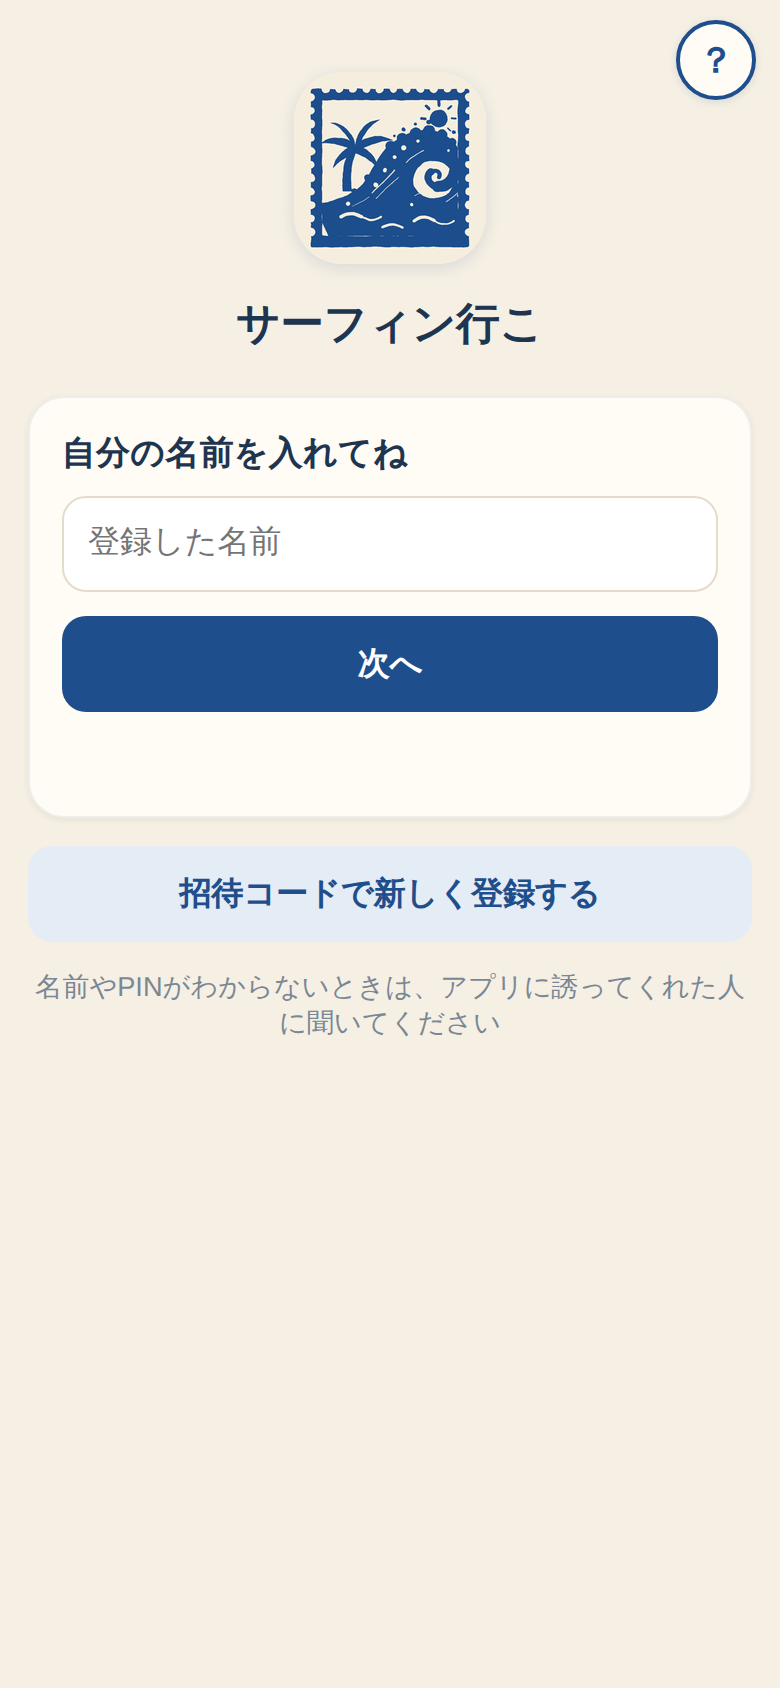
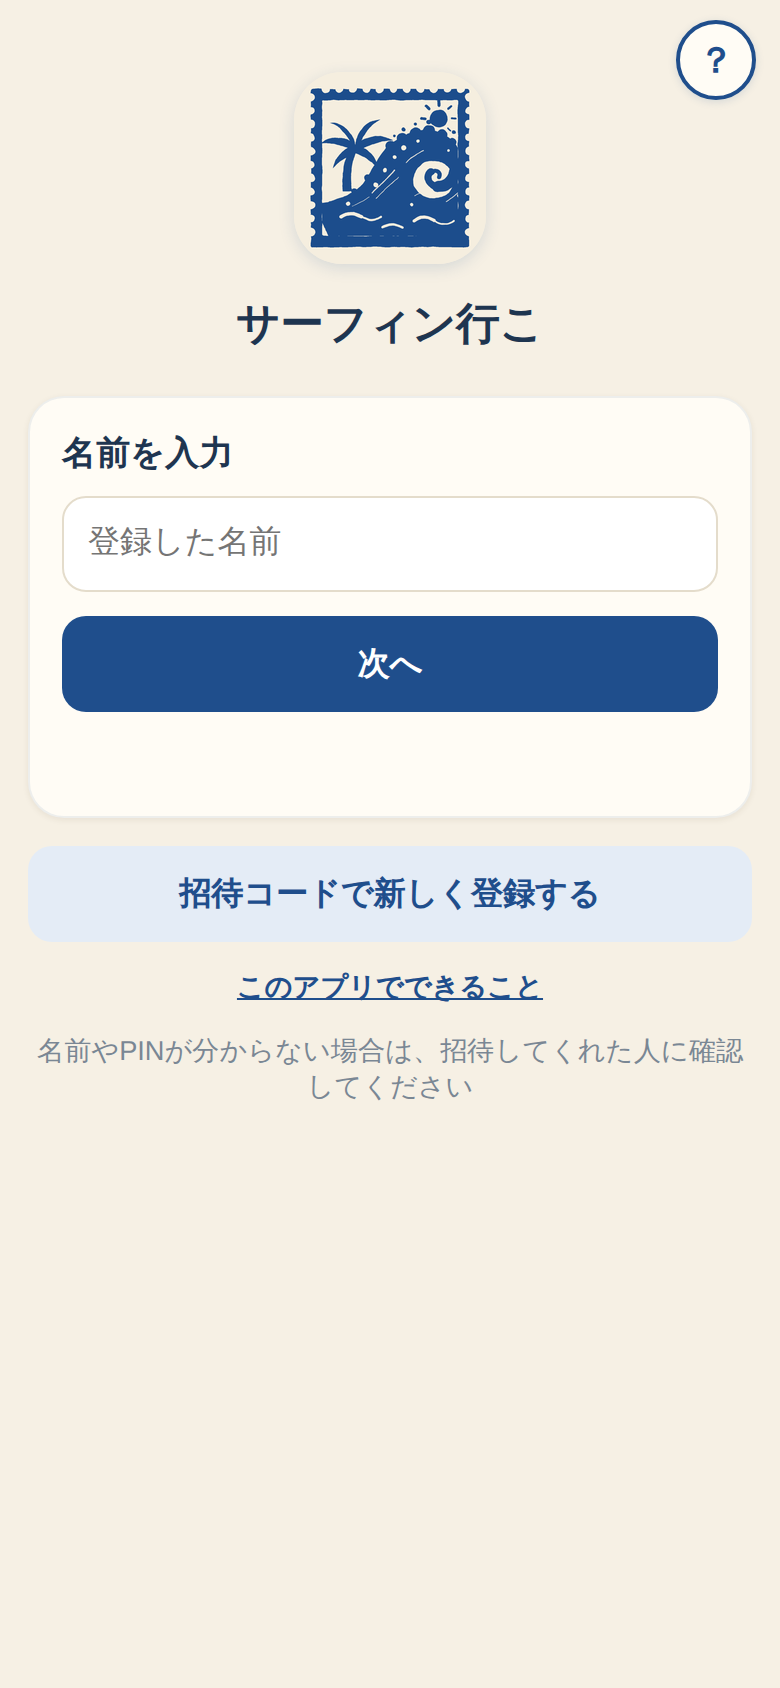
アプリ本体の文言を大人向けに、初回起動の「はじめに」画面を追加
- ログイン・登録・PIN・ヒント・トースト・招待文などの「〜てね」「ようこそ!」を落ち着いた表現に
- 初回起動時に3つのメリット(仲間の予定が見える / トリップの日程合わせ / 通知)を
  コンパクトに表示。「はじめる」で閉じ、以後は表示しない。ログイン画面のリンクから再表示可
- 使い方ガイドの第1章も同じ3項目に
- ガイドの画像を新しい文言で再生成

Claude-Session: https://claude.ai/code/session_01YJ4aJdBi8Pih4aaSyeuZ7k

diff --git a/index.html b/index.html
@@ -303,6 +303,17 @@ h2{font-size:1.05rem; margin:0 0 10px; letter-spacing:.02em;}
 .help-fig img{max-width:100%; width:260px; border-radius:12px; border:1px solid #D9CFB8; box-shadow:0 2px 8px rgba(31,78,140,.12); display:block; height:auto;}
 .help-fig.two img{width:calc(50% - 5px);}
 .help-svg{width:100%; max-width:340px; height:auto; display:block;}
+.intro-list{margin:6px 0 14px; padding:0; list-style:none;}
+.intro-list li{display:flex; gap:12px; align-items:flex-start; background:var(--card); border-radius:14px; padding:12px 14px; margin-bottom:8px;
+  box-shadow:0 1px 3px rgba(31,78,140,.08); text-align:left;}
+.intro-list .ii{flex:none; width:40px; height:40px; border-radius:50%; background:#E4ECF6; color:#1F4E8C; display:flex; align-items:center; justify-content:center;}
+.intro-list .ii svg{width:22px; height:22px; stroke:#1F4E8C;}
+.intro-list b{display:block; font-size:1rem; margin-bottom:2px;}
+.intro-list span.d{color:var(--sub); font-size:.9rem; line-height:1.5;}
+#intro-screen{position:fixed; inset:0; background:var(--bg); z-index:70; overflow-y:auto; padding:calc(24px + env(safe-area-inset-top)) 16px calc(24px + var(--safe-bottom));}
+#intro-screen .inner{max-width:420px; margin:0 auto; text-align:center;}
+#intro-screen h1{font-size:1.4rem; margin:6px 0 4px;}
+#intro-screen .lead{color:var(--sub); margin:0 0 16px;}
 .help-inner .sw{display:inline-block; width:1em; height:1em; border-radius:50%; vertical-align:-2px; margin-right:4px;}
 </style>
 </head>
@@ -319,6 +330,7 @@ h2{font-size:1.05rem; margin:0 0 10px; letter-spacing:.02em;}
   <symbol id="i-plus" viewBox="0 0 24 24"><path d="M12 5v14M5 12h14"/></symbol>
   <symbol id="i-cal" viewBox="0 0 24 24"><rect x="3" y="5" width="18" height="16" rx="3"/><path d="M3 10h18M8 3v4M16 3v4M8 15h3"/></symbol>
   <symbol id="i-people" viewBox="0 0 24 24"><circle cx="9" cy="8" r="3.2"/><circle cx="17" cy="9.5" r="2.5"/><path d="M2.5 20c.5-4 3.5-6 6.5-6s6 2 6.5 6M15.5 20c.3-2.5 2-4 4.5-4 1 0 1.7.2 2 .4"/></symbol>
+  <symbol id="i-bell" viewBox="0 0 24 24"><path d="M6 17V11a6 6 0 0112 0v6l1.5 2h-15z"/><path d="M10 21a2 2 0 004 0"/></symbol>
   <symbol id="i-person" viewBox="0 0 24 24"><circle cx="12" cy="8" r="4"/><path d="M4.5 21c.5-4.5 4-7 7.5-7s7 2.5 7.5 7"/></symbol>
 </svg>
 <div id="spinner"><div class="spin"></div></div>
@@ -333,21 +345,22 @@ h2{font-size:1.05rem; margin:0 0 10px; letter-spacing:.02em;}
   </div>
   <div id="login-step-name">
     <div class="card">
-      <h2>自分の名前を入れてね</h2>
+      <h2>名前を入力</h2>
       <input class="field" id="login-name" placeholder="登録した名前" maxlength="20"
         autocomplete="username" autocapitalize="off" autocorrect="off" spellcheck="false">
       <button class="btn" style="margin-top:12px" onclick="goToPin()">次へ</button>
       <div class="pin-error" id="name-error"></div>
     </div>
     <button class="btn secondary" onclick="showRegister()">招待コードで新しく登録する</button>
-    <p class="sub" style="text-align:center">名前やPINがわからないときは、アプリに誘ってくれた人に聞いてください</p>
+    <p class="sub" style="text-align:center; margin-top:14px"><a href="#" onclick="openIntro(); return false;" style="color:var(--accent); font-weight:600">このアプリでできること</a></p>
+    <p class="sub" style="text-align:center">名前やPINが分からない場合は、招待してくれた人に確認してください</p>
   </div>
   <div id="login-step-register" class="hidden">
     <div class="card">
-      <h2>はじめての登録</h2>
-      <label class="sub">招待コード(誘ってくれた人に聞いてね)</label>
+      <h2>新規登録</h2>
+      <label class="sub">招待コード(招待してくれた人から受け取ったもの)</label>
       <input class="field" id="reg-code" maxlength="30" autocapitalize="characters" autocorrect="off" spellcheck="false" style="margin:4px 0 12px">
-      <label class="sub">名前(みんなに表示されます。ニックネームでOK)</label>
+      <label class="sub">名前(仲間に表示されます。ニックネーム可)</label>
       <input class="field" id="reg-name" maxlength="20" autocorrect="off" spellcheck="false" style="margin:4px 0 12px">
       <label class="sub">PIN(6桁の数字。ログインに使います)</label>
       <input class="field" id="reg-pin" type="password" inputmode="numeric" maxlength="6" style="margin:4px 0 12px">
@@ -360,14 +373,14 @@ h2{font-size:1.05rem; margin:0 0 10px; letter-spacing:.02em;}
   </div>
   <div id="login-step-pin" class="hidden">
     <div class="card">
-      <h2 id="pin-title">PINを入れてね</h2>
+      <h2 id="pin-title">PINを入力</h2>
       <div id="pin-boxes">
         <div class="pin-box"></div><div class="pin-box"></div><div class="pin-box"></div>
         <div class="pin-box"></div><div class="pin-box"></div><div class="pin-box"></div>
       </div>
       <div class="pin-error" id="pin-error"></div>
       <div id="pin-pad"></div>
-      <button class="btn secondary" style="margin-top:16px" onclick="backToNames()">← 名前を入れ直す</button>
+      <button class="btn secondary" style="margin-top:16px" onclick="backToNames()">← 名前を入力し直す</button>
     </div>
   </div>
 </div>
@@ -482,6 +495,25 @@ h2{font-size:1.05rem; margin:0 0 10px; letter-spacing:.02em;}
   </div>
 </div>
 
+<!-- ============ はじめに(初回だけ表示) ============ -->
+<div id="intro-screen" class="hidden">
+  <div class="inner">
+    <img src="icons/icon-192.png" alt="" style="width:84px; height:84px; border-radius:20px; box-shadow:0 2px 8px rgba(31,78,140,.15)">
+    <h1>サーフィン行こ</h1>
+    <p class="lead">仲間と「いつ海に行くか」を共有するアプリです</p>
+    <ul class="intro-list">
+      <li><span class="ii"><svg class="ic"><use href="#i-people"/></svg></span>
+        <div><b>仲間の予定が見える</b><span class="d">誰がいつ海に行くかがカレンダーで分かるので、みんなが行くタイミングに合わせて海に行けます。</span></div></li>
+      <li><span class="ii"><svg class="ic"><use href="#i-plane"/></svg></span>
+        <div><b>トリップの日程を合わせられる</b><span class="d">海外や船のトリップは、メンバー全員で行ける日を出し合って日程を決められます。</span></div></li>
+      <li><span class="ii"><svg class="ic"><use href="#i-bell"/></svg></span>
+        <div><b>仲間の動きを通知で知れる</b><span class="d">よく一緒に行く人が「海に行く」と登録したら、スマートフォンに通知が届きます。</span></div></li>
+    </ul>
+    <button class="btn" onclick="closeIntro()">はじめる</button>
+    <button class="btn secondary" style="margin-top:10px" onclick="closeIntro(); openHelp()">くわしい使い方を見る</button>
+  </div>
+</div>
+
 <!-- ============ 使い方(ヘルプ) ============ -->
 <div id="help-screen" class="hidden">
   <div class="help-top">
@@ -494,12 +526,14 @@ h2{font-size:1.05rem; margin:0 0 10px; letter-spacing:.02em;}
     <details open>
       <summary><span class="no">1</span>このアプリでできること</summary>
       <div class="hb">
-        <p>「サーフィン行こ」は、仲間内で<b>「いつ海に行けるか」</b>を共有するためのカレンダーです。</p>
-        <ul>
-          <li>自分が行ける日を、カレンダーを指でなぞって登録する</li>
-          <li>仲間が行ける日が、日付の中の点(●)で分かる</li>
-          <li>海外遠征やボートトリップの日程調整、参加者限定の掲示板</li>
-          <li>仲間が予定を入れたときなどに、スマートフォンへ通知</li>
+        <p>「サーフィン行こ」は、仲間内で<b>「いつ海に行くか」</b>を共有するアプリです。できることは大きく3つです。</p>
+        <ul class="intro-list">
+          <li><span class="ii"><svg class="ic"><use href="#i-people"/></svg></span>
+            <div><b>仲間の予定が見える</b><span class="d">誰がいつ海に行くかがカレンダーで分かるので、みんなが行くタイミングに合わせて海に行けます。</span></div></li>
+          <li><span class="ii"><svg class="ic"><use href="#i-plane"/></svg></span>
+            <div><b>トリップの日程を合わせられる</b><span class="d">海外や船のトリップは、メンバー全員で行ける日を出し合って日程を決められます。参加者限定の掲示板としおりも使えます。</span></div></li>
+          <li><span class="ii"><svg class="ic"><use href="#i-bell"/></svg></span>
+            <div><b>仲間の動きを通知で知れる</b><span class="d">よく一緒に行く人が「海に行く」と登録したら、スマートフォンに通知が届きます。誰の、どの予定を通知するかは自分で選べます。</span></div></li>
         </ul>
         <p class="tip">利用は無料です。登録するのは名前とPIN(6桁の数字)だけで、電話番号やメールアドレスは使いません。</p>
       </div>
@@ -921,6 +955,7 @@ async function boot(){
 async function showLogin(){
   $('app').classList.add('hidden');
   $('login-screen').classList.remove('hidden');
+  maybeShowIntro();
   $('login-step-name').classList.remove('hidden');
   $('login-step-pin').classList.add('hidden');
   $('login-step-register').classList.add('hidden');
@@ -972,10 +1007,10 @@ async function submitRegister(){
   try { localStorage.setItem('surf-iko:last-name', m.name); } catch (e) {}
   await enterApp({ id: m.id, name: m.name, is_admin: m.is_admin });
   openModal(`
-    <h2>ようこそ、${esc(m.name)} さん!</h2>
+    <h2>${esc(m.name)} さん、登録が完了しました</h2>
     <p class="sub">次からは、名前「${esc(m.name)}」と今決めたPINでログインします。</p>
     <p class="sub">あなたの海・プール・海外の予定は、まだ誰にも見えていません。<br>
-      「仲間」タブの<b>「見せる」</b>で、見せたい人を選んでね。</p>
+      「仲間」タブの<b>「見せる」</b>で、見せる相手を選んでください。</p>
     <button class="btn" onclick="closeModal(); showTab('nakama')">仲間タブを開く</button>
     <button class="btn secondary" onclick="closeModal()">あとで</button>
   `);
@@ -988,7 +1023,7 @@ function goToPin(){
   $('login-name').blur();
   state.loginMember = { name };
   state.pinDigits = '';
-  $('pin-title').textContent = `${name} さんのPINを入れてね`;
+  $('pin-title').textContent = `${name} さんのPINを入力`;
   $('pin-error').textContent = '';
   renderPinPad();
   renderPinBoxes();
@@ -1282,9 +1317,9 @@ function renderPalette(){
        onclick="setPaint('eraser')">🧽 消しゴム</button>`;
   $('palette').innerHTML = html;
   $('paint-hint').textContent =
-    state.paint === 'eraser' ? '消したい日をなぞってね(過去の日は「行かなかった」になります)' :
-    state.paint === 'went' ? '実際に行った日(過去)をなぞってね。もう一度なぞると取り消し' :
-    state.paint ? `「${intentDef(state.genre, state.paint).label}」にする日をなぞってね(もう一度なぞると取り消し)` :
+    state.paint === 'eraser' ? '消したい日をなぞってください(過去の日は「行かなかった」になります)' :
+    state.paint === 'went' ? '実際に行った日(過去)をなぞってください。もう一度なぞると取り消し' :
+    state.paint ? `「${intentDef(state.genre, state.paint).label}」にする日をなぞってください(もう一度なぞると取り消し)` :
     '上のボタンをどれか選ぶと、なぞった日に予定が入ります。今は日付タップでみんなの予定が見られます';
 }
 function setPaint(key){
@@ -1838,7 +1873,7 @@ async function submitTripCreate(){
   spin(false);
   if (error) { console.error(error); toast('作成に失敗しました', true); return; }
   closeSheet();
-  toast(`「${name}」を作りました。行ける日を塗ってね`);
+  toast(`「${name}」を作りました。行ける日をなぞって登録してください`);
   await refreshSocial();
   await setGenre('trip:' + data);
 }
@@ -2019,7 +2054,7 @@ function openConfirmTrip(start, end){
 async function submitConfirmTrip(id){
   const a = $('cf-start').value, b = $('cf-end').value;
   if (!a || !b) { $('cf-error').textContent = '日付を選んでください'; return; }
-  if (b < a) { $('cf-error').textContent = 'おわりは、はじまりより後にしてください'; return; }
+  if (b < a) { $('cf-error').textContent = '終了日は開始日より後にしてください'; return; }
   spin(true);
   const { error } = await sb.rpc('confirm_trip', { p_trip: id, p_start: a, p_end: b });
   spin(false);
@@ -2519,7 +2554,7 @@ async function disablePush(){
 }
 async function sendTestNotification(){
   const { error } = await sb.rpc('send_test_notification');
-  toast(error ? '送れませんでした' : 'テスト通知を送りました。1分以内に届きます(アプリを閉じて待ってみてね)', !!error);
+  toast(error ? '送れませんでした' : 'テスト通知を送りました。1分以内に届きます(アプリを閉じて待つと確認しやすいです)', !!error);
 }
 async function setNotifyMode(mode){
   await sb.from('notify_settings').upsert({ member_id: state.me.id, mode, updated_at: new Date().toISOString() }, { onConflict: 'member_id' });
@@ -2806,10 +2841,10 @@ async function renderJibun(){
 /* ---------- 招待コード(管理者) ---------- */
 function inviteUrl(code){ return location.origin + location.pathname + '?invite=' + encodeURIComponent(code); }
 function inviteText(code){
-  return `🌊「サーフィン行こ」に招待します!\n` +
+  return `🌊「サーフィン行こ」に招待します\n` +
     `① このリンクをSafariで開く\n${inviteUrl(code)}\n` +
     `② 名前と6桁のPINを決めて登録\n` +
-    `③ 共有ボタン→「ホーム画面に追加」でアプリになるよ\n` +
+    `③ 共有ボタン→「ホーム画面に追加」でアプリとして使えます\n` +
     `(招待コード: ${code})`;
 }
 async function renderInvite(){
@@ -2851,9 +2886,9 @@ async function setInvite(mode){
 async function copyInvite(){
   if (!state.inviteCode) return;
   const text = inviteText(state.inviteCode);
-  try { await navigator.clipboard.writeText(text); toast('コピーしました。LINEなどに貼り付けてね'); }
+  try { await navigator.clipboard.writeText(text); toast('コピーしました。LINEなどに貼り付けて送ってください'); }
   catch (e) {
-    openModal(`<h2>招待メッセージ</h2><p class="sub">長押しでコピーしてね</p>
+    openModal(`<h2>招待メッセージ</h2><p class="sub">長押しでコピーしてください</p>
       <textarea class="field" rows="8" readonly>${esc(text)}</textarea>
       <button class="btn secondary" onclick="closeModal()">閉じる</button>`);
   }
@@ -2911,7 +2946,7 @@ async function adminAddMember(){
     return;
   }
   $('add-name').value = ''; $('add-pin').value = '';
-  toast(`${name} さんを追加しました。名前と初期PINを本人に伝えてね`);
+  toast(`${name} さんを追加しました。名前と初期PINを本人に伝えてください`);
   await renderJibun();
 }
 
@@ -2963,6 +2998,18 @@ function openModal(html){
   $('modal-back').classList.remove('hidden');
 }
 function closeModal(){ $('modal-back').classList.add('hidden'); }
+
+/* ---------- はじめに(初回だけ) ---------- */
+function openIntro(){ $('intro-screen').classList.remove('hidden'); $('intro-screen').scrollTop = 0; }
+function closeIntro(){
+  $('intro-screen').classList.add('hidden');
+  try { localStorage.setItem('surf-iko:intro-seen', '1'); } catch (e) {}
+}
+function maybeShowIntro(){
+  let seen = '1';
+  try { seen = localStorage.getItem('surf-iko:intro-seen') || ''; } catch (e) {}
+  if (!seen) openIntro();
+}
 
 /* ---------- 使い方(ヘルプ) ---------- */
 function openHelp(){
